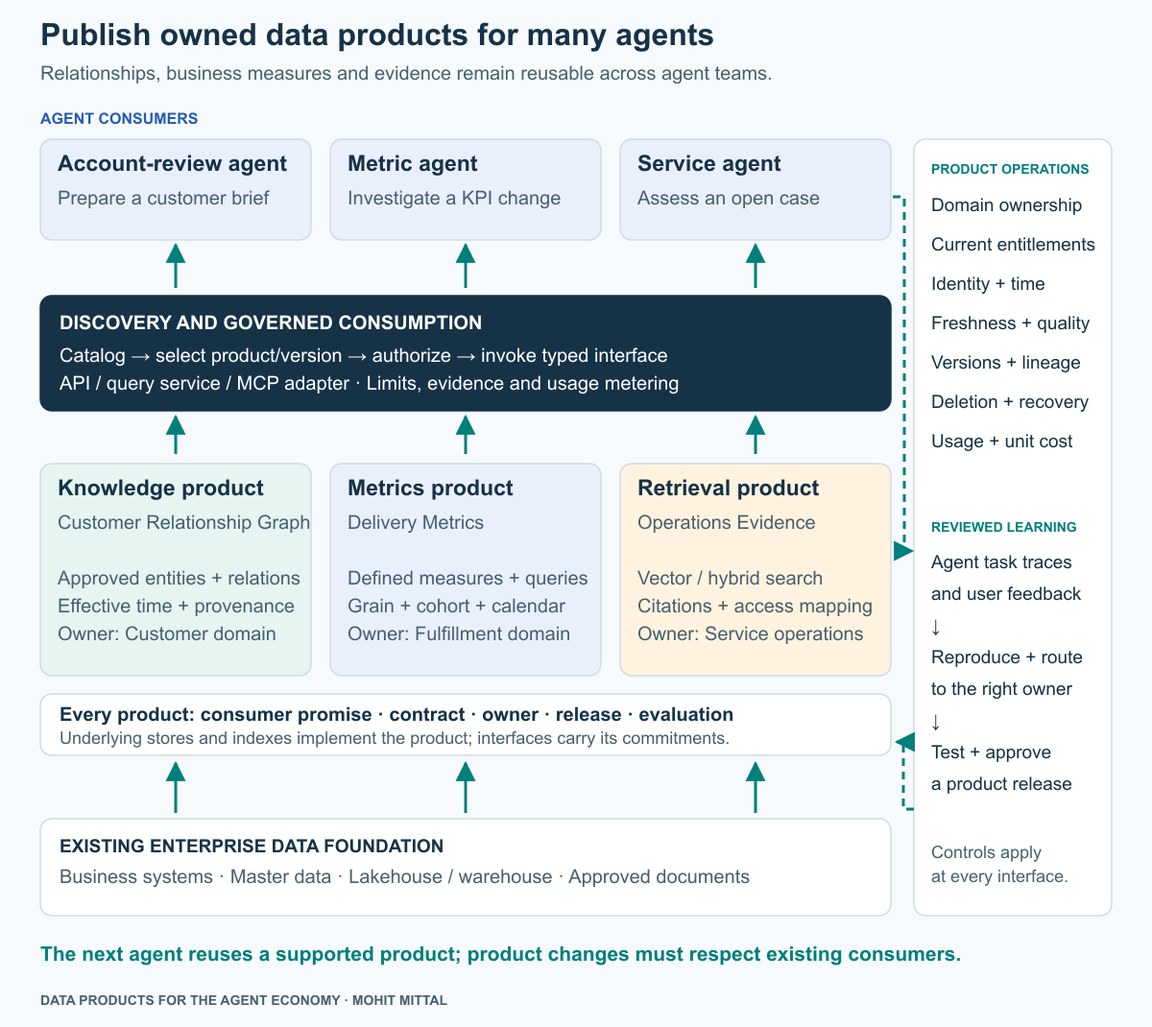
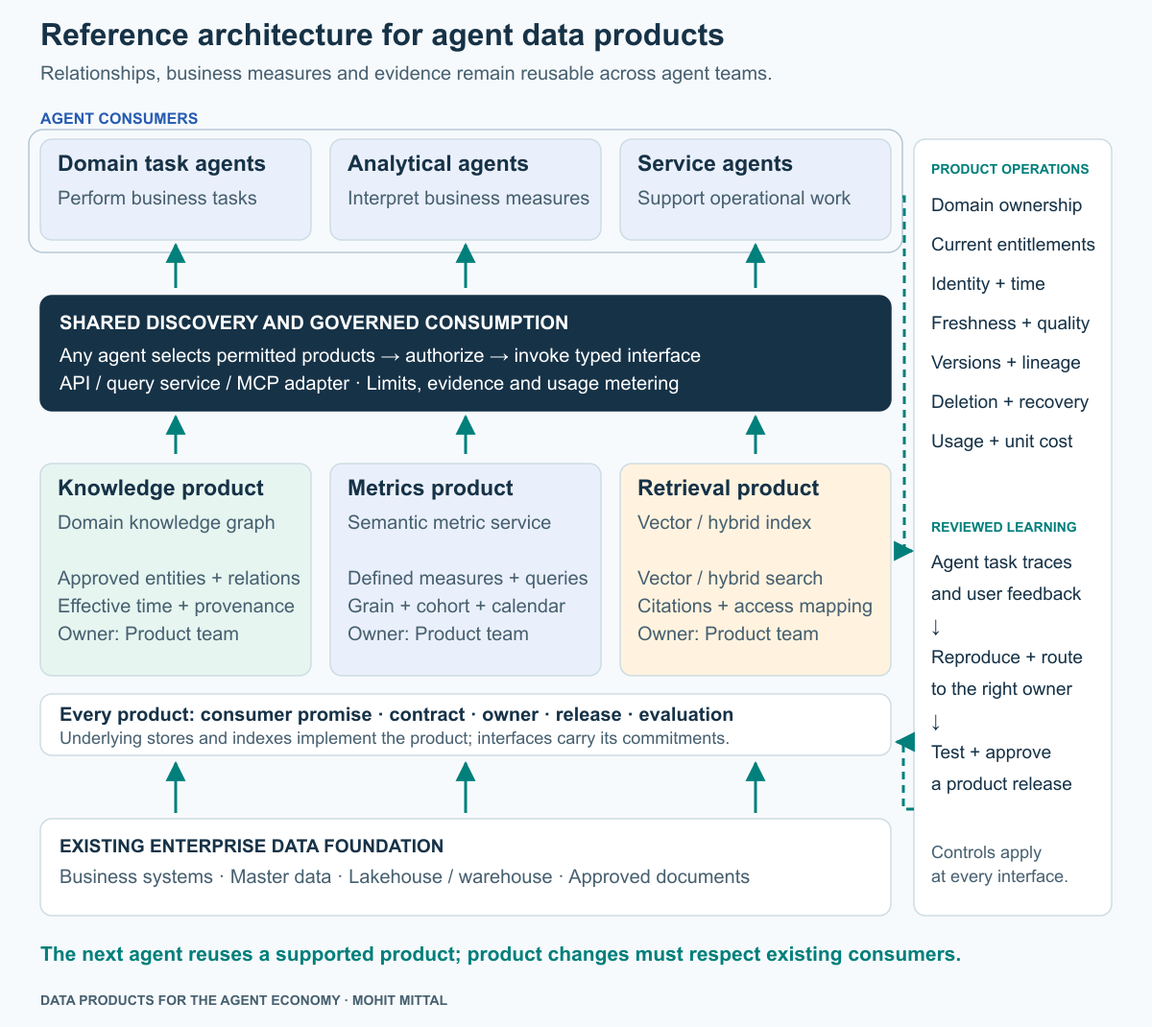
Present reusable reference architecture before the worked agent example

diff --git a/example/verify_metric.py b/example/verify_metric.py
@@ -1,5 +1,5 @@
 #!/usr/bin/env python3
-"""Synthetic arithmetic and contract demonstration for paper section 3.
+"""Synthetic arithmetic and contract demonstration for paper section 7.
 
 Run with Python 3.10+; only the standard library is used.
 

diff --git a/README.md b/README.md
@@ -4,9 +4,9 @@
 
 **Mohit Mittal · Independent architecture proposal · September 2026**
 
-Consider an enterprise introducing three agents: one prepares account reviews, another investigates service failures, and a third supports financial planning. All three need to know which business entities belong to a customer, how performance is measured and which documents support an explanation. If each team reconstructs those relationships, writes its own metric queries and builds a private document index, every new agent brings another copy of the same business knowledge to maintain.
+As an enterprise deploys agents across business functions, each team needs access to business entities and relationships, consistent measures and supporting evidence. If every team reconstructs that knowledge, writes its own metric queries and builds a private document index, the organization acquires many interpretations of the same business—and many copies to maintain.
 
-**The enterprise should publish that knowledge as reusable data products that agents can discover and consume.** A customer knowledge graph supplies approved relationships. A semantic metrics product supplies defined, executable business measures. A retrieval product supplies relevant, authorized evidence through a maintained vector or hybrid index. Each has a named owner, a supported interface and measurable commitments to its consumers.
+**The enterprise should publish that knowledge as reusable data products that agents can discover and consume.** A knowledge graph supplies approved entities and relationships. A semantic metrics product supplies defined, executable business measures. A retrieval product supplies relevant, authorized evidence through a maintained vector or hybrid index. Each has a named owner, a supported interface and measurable commitments to its consumers.
 
 This paper uses **agent economy** to describe an ecosystem in which agents across teams—and, where authorized, partner organizations—consume shared enterprise capabilities to perform work. The starting point is internal reuse. It does not require a commercial marketplace: the economic question is whether the next agent can use an existing product with less duplicated engineering and review effort.
 
@@ -18,66 +18,70 @@ For a CIO, CTO or Chief Architect, three decisions follow:
 - **What may an agent rely on?** Define each product's meaning, scope, access, freshness, failure behavior and evidence of correctness.
 - **How will reuse improve?** Fund product ownership and use evaluated agent outcomes to repair shared products through reviewed releases.
 
-The architecture below makes those decisions concrete. The worked example follows a metric agent that combines the three products; account-review and service agents can reuse them for different tasks. The scenario is synthetic, not a claim about an employer deployment.
+The reference architecture comes first: product boundaries, consumption contracts, the data foundation, controls, evaluation and sourcing decisions. A separate worked example then shows a metric agent using the architecture. The final section explains how to adopt it.
+
+## Reference architecture
+
+Publish domain-owned knowledge, calculation and retrieval capabilities above the data estate. Expose them through governed interfaces, let agent applications select the products a task needs, and use evaluated outcomes to drive reviewed changes. These are logical responsibilities; they need not become separate platforms or teams.
 
 ![Three classes of owned data products supply several enterprise agents through governed discovery and consumption.](diagrams/01-agent-product-architecture.png)
 
-*Figure 1. Agent teams consume shared knowledge, calculations and evidence. Data-product teams own those capabilities across agent implementations. Lines show supported publication and consumption routes; a task selects the products it needs. Dashed paths carry agent observations to owner review and reviewed releases back to the products.*
+*Figure 1. Reference architecture, independent of any single use case. Solid paths show publication and consumption routes; a task selects the products it needs. Dashed paths carry observations from the consumer group to owner review and reviewed releases back to the products. Column alignment does not assign an agent to a particular product. Product and application interfaces enforce the relevant controls.*
+
+| Architectural responsibility | What it owns |
+|---|---|
+| Enterprise data foundation | Authoritative inputs, validated transformations and source access |
+| Domain data products | Business meaning, supported operations, quality and lifecycle commitments |
+| Discovery and consumption | Product selection, version resolution, verified identity, bounded invocation and usage records |
+| Agent applications | Task intent, product composition, result acceptance, final disclosure and separately authorized actions |
+| Product operations and learning | Consumer support, evaluation, incident diagnosis and reviewed releases |
 
 
-**Reading guide:** [The three products](#1-publish-three-distinct-product-promises) · [Agent consumption contract](#2-design-the-contract-for-agent-consumption) · [Worked agent task](#3-one-agent-task-three-products) · [Medallion and Platinum](#4-build-on-the-data-estate-you-already-operate) · [Failure and access](#5-make-failure-and-access-part-of-the-product) · [Evaluation and learning](#6-make-agent-use-improve-the-products) · [Build vs. Buy](#7-build-vs-buy-buy-engines-own-the-product) · [Enterprise adoption](#8-adopt-through-a-second-consumer)
+**Reading guide:** [Reference architecture](#reference-architecture) · [Product promises](#1-publish-three-distinct-product-promises) · [Consumption contracts](#2-design-the-contract-for-agent-consumption) · [Data foundation](#3-build-on-the-data-estate-you-already-operate) · [Failure and access](#4-make-failure-and-access-part-of-the-product) · [Evaluation and learning](#5-make-agent-use-improve-the-products) · [Build vs. Buy](#6-build-vs-buy-buy-engines-own-the-product) · [Worked example](#7-worked-example-one-metric-agent-three-products) · [Adoption](#8-adopt-through-a-second-consumer)
 
 ## 1. Publish three distinct product promises
 
-The unit of reuse is a business capability with an operating commitment. A team consuming a Customer Relationship Graph needs to know which relationships it can rely on, at what effective date and under whose authority. Knowing which graph database stores the nodes is secondary.
+The unit of reuse is a business capability with an operating commitment. A team consuming a knowledge product needs to know which relationships it can rely on, at what effective date and under whose authority. Knowing which graph database stores the nodes is secondary.
 
 Domain ownership, data as a product and shared platform services provide a useful foundation. The particular architecture here applies those principles to agent consumption: products must make their meaning and permitted use explicit enough for an application to select and invoke them reliably. [Zhamak Dehghani, *Data Mesh Principles and Logical Architecture*](https://martinfowler.com/articles/data-mesh-principles.html).
 
-### Knowledge product: Customer Relationship Graph
+### Knowledge products: entities and relationships
 
-**Consumer promise:** resolve permitted customer identities and approved business relationships for a declared effective date.
+**Consumer promise:** resolve permitted business entities and approved relationships for a declared effective date.
 
-An account-review agent may need a commercial parent and its subsidiaries. A service agent may need the accounts entitled to support under a contract. Those are different relationship types; a shared graph should preserve the distinction. The customer-domain owner decides the meaning and authoritative sources. A product team maintains identifiers, relationship provenance, source mappings and the serving interface.
+The domain owner defines entity types, relationship meaning and authoritative sources. A product team maintains identifiers, relationship provenance, source mappings and the serving interface. Commercial ownership, contractual entitlement and operational dependency are different relationships; a shared graph must preserve their meaning and permitted uses.
 
-Publish bounded operations such as `resolve_customer`, `get_commercial_group` and `get_contract_coverage`. Inputs specify known identifiers, relationship types and an effective date. Responses carry stable entity IDs, relevant relationship paths, validity periods, source references, product versions and any unresolved mappings. A consequential uncertain identity match needs resolution; it cannot silently become an approved merge.
+Publish bounded entity-resolution, relationship-traversal and evidence operations, with domain-specific names and schemas. Inputs specify known identifiers, relationship types and an effective date. Responses carry stable entity IDs, relevant relationship paths, validity periods, source references, product versions and any unresolved mappings. A consequential uncertain identity match needs resolution; it cannot silently become an approved merge.
 
 The graph is the maintained representation of business relationships. Extracted document statements remain provisional until they meet the product's acceptance policy. A domain graph and a lineage graph also have different jobs: the former connects business entities; the latter connects data assets, transformations and consumers. Link them through controlled identifiers. Neither automatically establishes the completeness or truth of the other. [W3C provenance model](https://www.w3.org/TR/prov-dm/).
 
 An organization with a simple, stable hierarchy can begin with a relational implementation behind the same product contract. Invest in a graph engine when representative traversal, changing relationships and explanatory paths justify its operating cost. The data product persists even if its storage implementation changes.
 
-### Metrics product: Delivery Metrics
+### Semantic metrics products: executable business meaning
 
 **Consumer promise:** calculate approved measures for a specified population, period and breakdown.
 
-Publish metric definitions together with an execution service. The contract establishes business grain—the unit being measured, such as an order rather than a shipment—plus numerator and denominator, supported dimensions, permissible joins, calendar, exclusions, correction policy and owner. Agents invoke an approved calculation; each application should not generate its own interpretation of “on-time delivery” from table descriptions.
+Publish metric definitions together with an execution service. The contract establishes business grain—what one counted or aggregated record represents—plus numerator and denominator, supported dimensions, permissible joins, calendar, exclusions, correction policy and owner. Agents invoke an approved calculation; each application should not generate its own interpretation of a business measure from table descriptions.
 
-`query_metric` accepts a released metric ID, definition version, a compatible reference to the selected customer population (or cohort), periods and permitted dimensions. Its result includes the value, component measures, units, scope, actual time bounds, source snapshot or coverage watermark, quality status and calculation reference. Distinct business definitions receive explicit names or versions. Finance's recognized revenue and Sales' bookings should not be collapsed into a single ambiguous “revenue” measure.
+`query_metric` accepts a released metric ID, definition version, a compatible reference to the selected business population (or cohort), periods and permitted dimensions. Its result includes the value, component measures, units, scope, actual time bounds, source snapshot or coverage watermark, quality status and calculation reference. Distinct business definitions receive explicit names or versions. Finance's recognized revenue and Sales' bookings should not be collapsed into a single ambiguous “revenue” measure.
 
-Executable semantics matter. Averaging percentages without denominator weights, multiplying rows through a shipment join, or using a current hierarchy to restate historical results can produce plausible but incorrect answers. Product tests must reconcile these cases. A semantic model's declared cardinality is a constraint to validate against real data. [dbt join logic](https://docs.getdbt.com/docs/build/join-logic).
+Executable semantics matter. Averaging percentages without denominator weights, multiplying rows through a one-to-many join, or using a current hierarchy to restate historical results can produce plausible but incorrect answers. Product tests must reconcile these cases. A semantic model's declared cardinality is a constraint to validate against real data. [dbt join logic](https://docs.getdbt.com/docs/build/join-logic).
 
 There are concrete mechanisms to expose such products to agents. dbt's MCP tools include metric discovery, dimension discovery and metric queries. They provide an access path to defined measures; the enterprise remains responsible for the definitions, permitted tool subset and underlying data. Availability depends on the relevant service and plan. [dbt available MCP tools](https://docs.getdbt.com/docs/dbt-ai/mcp-available-tools).
 
-### Retrieval product: Operations Evidence
+### Retrieval products: governed access to evidence
 
 **Consumer promise:** return relevant, permitted passages from a declared corpus, with enough provenance to inspect their meaning and applicability.
 
 A reusable vector index becomes a product when someone owns the eligible sources, extraction quality, chunking, embedding configuration, refresh, entitlement mapping, deletion, retrieval evaluation and consumer interface. A product entry might publish the index directly to approved clients or expose it through `search_evidence`. A service interface gives the producer more control over query limits and enforcement while insulating consumers from index changes.
 
-Return source IDs and versions, document locations, event or validity dates, retrieved passages and index/retrieval versions. Preserve links to the authoritative record. Similarity scores describe retrieval behavior; they are not probabilities that a statement is true. Empty results do not establish that no incident occurred.
+Return source IDs and versions, document locations, event or validity dates, retrieved passages and index/retrieval versions. Preserve links to the authoritative record. Similarity scores describe retrieval behavior; they are not probabilities that a statement is true. Empty results do not establish that the underlying fact or event does not exist.
 
 Use lexical matching for exact identifiers and domain terms alongside vector retrieval where it improves representative tasks. Graph traversal can expand a search through known relationships when that helps. These are selectable retrieval strategies, not a requirement that every query traverse a graph and a vector index. [Neo4j retrieval guide](https://neo4j.com/docs/neo4j-graphrag-python/current/user_guide_rag.html).
 
 The three products can have different owners and release cadences while sharing infrastructure. They can also be interfaces of one cohesive domain product when purpose, ownership and lifecycle align. Do not split them into separate organizations solely because their storage technologies differ.
 
 McKinsey's public AI data-readiness guidance describes curated unstructured data products exposed through search and APIs, with relationships preserved as information is transformed. That supports this serving direction; the three-product contract and operating model here are an independent proposal. [McKinsey, *AI data readiness*](https://www.mckinsey.com/capabilities/mckinsey-technology/our-insights/ai-data-readiness-the-key-to-scaling-impact).
-
-| Agent consumer | Relationship product | Metrics product | Retrieval product |
-|---|---|---|---|
-| Account-review agent | Resolve the permitted commercial group | Calculate its delivery trend | Retrieve relevant account and incident evidence |
-| Metric agent | Fix the population for a comparison | Calculate and decompose the change | Find material for further investigation |
-| Service agent | Resolve account and contract coverage | Use only if the case needs a measure | Retrieve applicable procedures and case evidence |
-
-*Illustrative consumer map. Each product enforces the caller's scope; sharing a product does not mean every agent receives the same data.*
 
 ## 2. Design the contract for agent consumption
 
@@ -120,53 +124,17 @@ Keep broad development tools separate from a certified product interface. If a m
 
 For partner agents, add explicit agreements on identity federation, purpose, onward disclosure, residency, liability for corrections, support and commercial terms. Begin with a deliberately small product surface. An internal product does not become externally shareable simply because its endpoint speaks a common protocol.
 
-## 3. One agent task, three products
+### Composition is an application responsibility
 
-An operations leader asks a metric agent: **“Why did on-time delivery fall for our strategic customers between July and August?”** The following example is synthetic. It illustrates the products' contributions and the limits of the resulting explanation.
+Individually valid products do not automatically form a valid answer. The consuming application checks three conditions before combining results:
 
-First, the application establishes the approved measure and reporting basis. Customer Relationship Graph resolves the strategic-customer cohort as of July 1. The agent uses that fixed cohort for both months; unknown membership blocks a complete comparison. Changing the membership between months would answer a different question.
+1. **Population and identity:** requested and applied populations match, entity namespaces are compatible, and permissions have not silently reduced a claimed complete population. A narrower answer requires an explicitly supported scope and label.
+2. **Time and correction basis:** definitions, effective periods and data versions support the requested comparison. Use reproducible snapshots or retained calculation references where the contract promises reproducibility; a freshness watermark alone is insufficient. Current access still applies.
+3. **Evidence applicability:** retrieved sources identify their versions, coverage and relevant entities or period. Their relevance cannot override a failed calculation or scope check, and retrieval scores do not establish causation.
 
-Delivery Metrics calculates an order-level rate. The denominator includes eligible orders due in the month, including undelivered orders, and excludes orders canceled before the first committed deadline. The numerator counts orders fully delivered by that deadline. Reporting uses the original destination timezone, the region recorded at commitment and monthly snapshots frozen seven days after month-end. These are proposed choices for the example, not universal definitions.
+Required checks fail closed for the affected conclusion. Optional evidence can be unavailable without invalidating independently verified results, provided the application clearly qualifies what remains unanswered.
 
-| Region | July: on time / due | August: on time / due | Rate in each month |
-|---|---:|---:|---:|
-| North | 76 / 80 | 38 / 40 | 95% |
-| South | 14 / 20 | 42 / 60 | 70% |
-| Total | 90 / 100 | 80 / 100 | 90% → 80% |
-
-South's share increases from 20% to 60%. Recomputing August with July's regional weights gives 90%. In this complete two-region decomposition, the changed mix accounts for the full ten-percentage-point aggregate decline; neither regional rate deteriorated. That establishes the arithmetic contribution, not why the mix changed.
-
-The agent then queries Operations Evidence for the relevant regions and period. Suppose a synthetic August note reports a sorting backlog. The note is an investigation lead. It does not prove that the backlog caused the aggregate decline or the shift in order mix. The answer should explain what the calculation establishes and what further investigation remains.
-
-![A metric agent resolves a cohort, obtains an approved calculation and retrieves supporting evidence under three product contracts.](diagrams/02-product-composition.png)
-
-*Figure 2. The graph supplies the population, the metrics service supplies the calculation, and retrieval supplies documentary evidence. These dependencies are selected for this task. Other agents can reuse one or two products without executing this entire sequence.*
-
-If documentary retrieval times out, the application can return the verified numbers while identifying the incomplete investigation. If the denominator is uncertified, it stops the numerical conclusion. If customer IDs or effective periods are incompatible, a successful response from each service still does not justify combining them. Products therefore need both independent tests and composition tests.
-
-### What the application checks before combining results
-
-The following **filled synthetic consumption record** illustrates the checks. The identifiers are proposed references, not outputs from the runnable arithmetic fixture. Full membership and policy records are protected; references reveal only what the caller may inspect.
-
-| Product response | Relevant recorded state |
-|---|---|
-| Customer Relationship Graph | Cohort `strategic-jul01-r1`; namespace `enterprise.customer.v1`; membership effective 2026-07-01; immutable graph snapshot `g042`; no unresolved members; membership interpretation frozen for both periods |
-| Delivery Metrics | Definition `on-time-order.v1`; requested and applied cohort both `strategic-jul01-r1`; complete cohort coverage under the metric service's current permissions; immutable data snapshots `july-frozen-r1` and `august-frozen-r1`; calculation reference `calc-017` records the definition, inputs and grouping |
-| Operations Evidence | Approved corpus `ops-incidents.v1`; declared search period July–August 2026; index release `idx-028`; searchable-source manifest `docs-028` identifies source versions and ingestion coverage; returned passages retain their source event dates |
-
-The consuming application enforces three acceptance rules:
-
-1. **Preserve the requested population.** The metric service must acknowledge the exact cohort and compatible customer-ID namespace. If its permissions hide part of that population, return incomplete or denied according to disclosure policy. Do not silently present the filtered subset as the original cohort. A narrower population requires an explicit new request and label.
-2. **Preserve the requested time and correction basis.** The selected metric definition and data snapshots must support the frozen comparison and the graph's historical membership. A coverage watermark alone cannot reproduce a result after source corrections; retain an immutable data/calculation reference where reproducibility is promised. Required current authorization still applies.
-3. **Match evidence to the question without upgrading its authority.** The retrieval response must identify its corpus, source versions and known coverage, and the passages must be applicable to the period and entities being discussed. Coverage limits qualify the investigation. A matching document cannot override failed population or calculation checks.
-
-For example, a metric result marked `applied_cohort=strategic-current-r2` is rejected for this comparison even if its percentage looks plausible. A record containing `august-restated-r2` is not accepted as the requested frozen August result without an explicitly changed reporting basis. Each product may be valid independently; the combination fails this task's contract.
-
-An account-review agent can consume the same products for one permitted commercial group. A service agent can reuse identity and incident retrieval without querying the metric. This is the adoption test: the second application gets a supported capability, not another copy of an index, prompt or formula.
-
-[Run the synthetic arithmetic example](example/README.md). Its 17 checks cover selected calculation and contract failures. It does not implement the product services, graph, retrieval, permission system or complete agent workflow.
-
-## 4. Build on the data estate you already operate
+## 3. Build on the data estate you already operate
 
 The products need authoritative inputs and dependable transformation paths. Existing operational systems, master data, lakehouses, warehouses and document repositories remain their foundations. The incremental investment is the product boundary: curated meaning, serving interface, evaluation, consumer support and lifecycle operation.
 
@@ -174,13 +142,13 @@ In a medallion estate, Bronze preserves captured inputs, Silver supplies validat
 
 ![Medallion refinement feeds owned graph, metric and retrieval products through suitable detailed and business-ready inputs.](diagrams/03-foundation-to-products.png)
 
-*Figure 3. Product serving builds on the existing foundation. A graph may need validated entity detail; retrieval needs eligible content; metrics need models at the correct grain. Every product owns its relevant dependencies across layers.*
+*Figure 2. Product serving builds on the existing foundation. A graph may need validated entity detail; retrieval needs eligible content; metrics need models at the correct grain. Every product owns its relevant dependencies across layers.*
 
 Keep one authoritative metric definition. Gold already contains business meaning; Platinum need not recreate it or materialize another copy. Documents need not pass through a reporting aggregate before indexing. A logical product can share an engine with other products, while a derived store needs its own synchronization, access and recovery commitments.
 
 Existing catalogs, lineage and metadata automation can support discovery and impact assessment. Their coverage must be measured. They cannot establish an unrecorded business relationship, settle a disputed measure or identify an undocumented agent consumer automatically. Keep the investment tied to the selected agent task and the products it needs.
 
-## 5. Make failure and access part of the product
+## 4. Make failure and access part of the product
 
 Agent consumption increases the cost of a vague interface. A human analyst may notice a stale cohort or question an empty result; an application may continue unless the contract tells it to stop. Publish failure semantics that the consuming application can enforce.
 
@@ -188,7 +156,7 @@ Agent consumption increases the cost of a vague interface. A human analyst may n
 |---|---|
 | Ambiguous identity or metric | Request clarification or stop the affected conclusion; do not choose a materially different meaning silently |
 | Required data incomplete or stale | Return a machine-readable condition; serve a permitted labeled snapshot only if the task allows it |
-| Optional retrieval unavailable | Preserve separately verified calculations and qualify missing evidence; do not invent an explanation |
+| Optional product unavailable | Preserve independently verified results and qualify the missing contribution; do not invent an answer |
 | Access denied or restricted discovery | Enforce the boundary without leaking protected asset existence; internal diagnosis can be more specific than the consumer response |
 | Cross-product versions or time bases incompatible | Reject the combination or use an explicitly supported compatible set |
 | Source deletion or entitlement revocation | Prevent prohibited serving promptly, propagate deletion through derivatives and caches, and retain auditable handling under policy |
@@ -203,7 +171,7 @@ Treat retrieved text as evidence, including when it contains instructions. Keep 
 
 A data product authorizes a read or calculation within its contract. If an agent proposes updating an account, reallocating an order or opening a case, the operational service needs a separate action contract, validation and authorization. An analytical result is not a grant to act.
 
-## 6. Make agent use improve the products
+## 5. Make agent use improve the products
 
 A poor agent answer can reveal a product defect. It can also reveal an incorrect plan, a bad tool adapter or a faulty evaluation reference. Diagnose the failure before choosing the remedy. This is where evaluation becomes partly a data-product responsibility: the enterprise must maintain the facts, definitions, temporal references and expected behavior used to judge an answer.
 
@@ -211,13 +179,13 @@ Fitness is specific to the supported use and must be rechecked as inputs and con
 
 | Observed failure | Diagnostic question | Likely repair owner |
 |---|---|---|
-| Wrong customer population | Was the hierarchy incorrect, the date wrong, or the agent's cohort selection wrong? | Relationship product or agent/application owner, after reproduction |
+| Wrong entity population | Was the hierarchy incorrect, the date wrong, or the agent's cohort selection wrong? | Relationship product or agent/application owner, after reproduction |
 | Incorrect percentage | Did the metric definition, source completeness, join, query or displayed answer fail? | Metrics product or application owner |
 | Unsupported explanation | Was relevant evidence absent, inaccessible, poorly retrieved or misinterpreted? | Retrieval product or application/model owner |
 | “Failed” evaluation of a correct answer | Does the expected answer refer to a different snapshot, definition or access scope? | Evaluation owner |
 | Information disclosed outside scope | Which serving, caching, handoff or presentation boundary failed? | Product/platform and consuming-application owners |
 
-In the example, an evaluator expecting a restated August value can incorrectly fail an answer based on the requested frozen August snapshot. Pin the expected definition and data state; “the latest answer” is not a complete reference. Similarly, access-limited retrieval should not be judged against documents the caller could never receive.
+An evaluator that expects a restated value can incorrectly fail an answer based on the requested historical snapshot. Pin the expected definition and data state; “the latest answer” is not a complete reference. Similarly, access-limited retrieval should not be judged against documents the caller could never receive.
 
 ### Evaluate the product and the composed task
 
@@ -234,7 +202,7 @@ Databricks documents managed evaluation datasets and distinguishes feedback on o
 
 ![Agent outcomes feed a reviewed cycle of diagnosis, accountable repair, evaluation and compatible product release.](diagrams/04-reviewed-product-learning.png)
 
-*Figure 4. Evaluation can change a shared product, the consuming agent or the evaluator itself. Feedback is a candidate signal. Owners approve tested changes before other agents receive them.*
+*Figure 3. Evaluation can change a shared product, the consuming agent or the evaluator itself. Feedback is a candidate signal. Owners approve tested changes before other agents receive them.*
 
 Keep decision traces as observable records: task and product references, selected operations, source versions, concise decision rationale, checks, outcome and metered consumption. Protect sensitive payloads and apply retention policy. Hidden model reasoning is neither required nor an audit contract.
 
@@ -242,7 +210,19 @@ A failed case should become a reviewed regression case when it represents suppor
 
 The useful feedback loop is therefore **agent task → evidence → diagnosis → owner repair → evaluation → compatible release → observed result**. Never promote generated graph relationships, inferred metric definitions or retrieved claims automatically into authoritative products.
 
-## 7. Build vs. Buy: buy engines, own the product
+### People and decision rights
+
+| Accountable role | Decisions and recurring work |
+|---|---|
+| Domain product owner | Consumer promise, authoritative meaning, source responsibilities, acceptable use and compatibility of changes |
+| Data-product engineering team | Publication pipeline, interfaces, evaluations, source incidents, recovery, support and retirement |
+| Shared platform owner | Common discovery, identity integration, contract tooling, observability, metering and paved deployment paths |
+| Agent/application owner | Task success, product selection, safe composition, final disclosure, human review and separately authorized actions |
+| Business sponsor | Funded use case, accepted outcome, value measurement and expansion or retirement decision |
+
+Security, privacy and domain specialists contribute concrete acceptance conditions within these responsibilities. A cross-functional review should settle decisions that require it; it should not become a separate ticket for every ordinary read. Staff the support and stewardship work as part of the product budget, not as an informal favor from the original agent team.
+
+## 6. Build vs. Buy: buy engines, own the product
 
 The procurement question is which existing capabilities can satisfy the product promise and which missing interfaces justify custom work. Reuse is an option within that decision. Tool combinations below are candidates, not a tested integrated stack.
 
@@ -260,25 +240,71 @@ Databricks managed MCP servers expose scoped Genie Agents, AI Search indexes and
 
 Evaluate vendors against a product acceptance suite: the same business questions, identities, access scopes, changed definitions, late data, deletions, load and failure conditions. Include exportability of contracts and evaluation assets. The enterprise should be able to change a model, adapter or engine without losing ownership of its business semantics.
 
+## 7. Worked example: one metric agent, three products
+
+An operations leader asks a metric agent: **“Why did on-time delivery fall for our strategic customers between July and August?”** The following example is synthetic. It illustrates the products' contributions and the limits of the resulting explanation. The reference architecture is instantiated as three named products: **Customer Relationship Graph**, **Delivery Metrics** and **Operations Evidence**. Their implementation and operating commitments are specific to this scenario.
+
+First, the application establishes the approved measure and reporting basis. Customer Relationship Graph resolves the strategic-customer cohort as of July 1. The agent uses that fixed cohort for both months; unknown membership blocks a complete comparison. Changing the membership between months would answer a different question.
+
+Delivery Metrics calculates an order-level rate. The denominator includes eligible orders due in the month, including undelivered orders, and excludes orders canceled before the first committed deadline. The numerator counts orders fully delivered by that deadline. Reporting uses the original destination timezone, the region recorded at commitment and monthly snapshots frozen seven days after month-end. These are proposed choices for the example, not universal definitions.
+
+| Region | July: on time / due | August: on time / due | Rate in each month |
+|---|---:|---:|---:|
+| North | 76 / 80 | 38 / 40 | 95% |
+| South | 14 / 20 | 42 / 60 | 70% |
+| Total | 90 / 100 | 80 / 100 | 90% → 80% |
+
+South's share increases from 20% to 60%. Recomputing August with July's regional weights gives 90%. In this complete two-region decomposition, the changed mix accounts for the full ten-percentage-point aggregate decline; neither regional rate deteriorated. That establishes the arithmetic contribution, not why the mix changed.
+
+The agent then queries Operations Evidence for the relevant regions and period. Suppose a synthetic August note reports a sorting backlog. The note is an investigation lead. It does not prove that the backlog caused the aggregate decline or the shift in order mix. The answer should explain what the calculation establishes and what further investigation remains.
+
+![A metric agent resolves a cohort, obtains an approved calculation and retrieves supporting evidence under three product contracts.](diagrams/02-product-composition.png)
+
+*Figure 4. The graph supplies the population, the metrics service supplies the calculation, and retrieval supplies documentary evidence. These dependencies are selected for this task. Other agents can reuse one or two products without executing this entire sequence.*
+
+If documentary retrieval times out, the application can return the verified numbers while identifying the incomplete investigation. If the denominator is uncertified, it stops the numerical conclusion. If customer IDs or effective periods are incompatible, a successful response from each service still does not justify combining them. Products therefore need both independent tests and composition tests.
+
+### What the application checks before combining results
+
+The following **filled synthetic consumption record** illustrates the checks. The identifiers are proposed references, not outputs from the runnable arithmetic fixture. Full membership and policy records are protected; references reveal only what the caller may inspect.
+
+| Product response | Relevant recorded state |
+|---|---|
+| Customer Relationship Graph | Cohort `strategic-jul01-r1`; namespace `enterprise.customer.v1`; membership effective 2026-07-01; immutable graph snapshot `g042`; no unresolved members; membership interpretation frozen for both periods |
+| Delivery Metrics | Definition `on-time-order.v1`; requested and applied cohort both `strategic-jul01-r1`; complete cohort coverage under the metric service's current permissions; immutable data snapshots `july-frozen-r1` and `august-frozen-r1`; calculation reference `calc-017` records the definition, inputs and grouping |
+| Operations Evidence | Approved corpus `ops-incidents.v1`; declared search period July–August 2026; index release `idx-028`; searchable-source manifest `docs-028` identifies source versions and ingestion coverage; returned passages retain their source event dates |
+
+The application applies the reference architecture's composition checks to this record:
+
+1. **Population:** require `strategic-jul01-r1` in `enterprise.customer.v1`, with complete coverage of that cohort under current permissions. A restricted subset cannot be presented as the complete comparison.
+2. **Time:** require `on-time-order.v1`, the July/August frozen snapshots and the July 1 membership basis. Retain `calc-017` so the reported values can be tied to those inputs.
+3. **Evidence:** require the approved `ops-incidents.v1` corpus, source versions from `docs-028` and passages applicable to the selected entities and period. Coverage limits qualify the investigation, and a matching note cannot establish the cause of the calculated change.
+
+For example, a metric result marked `applied_cohort=strategic-current-r2` is rejected for this comparison even if its percentage looks plausible. A record containing `august-restated-r2` is not accepted as the requested frozen August result without an explicitly changed reporting basis. Each product may be valid independently; the combination fails this task's contract.
+
+An account-review agent can consume the same products for one permitted commercial group. A service agent can reuse identity and incident retrieval without querying the metric. This is the adoption test: the second application gets a supported capability, not another copy of an index, prompt or formula.
+
+### Reuse beyond the metric agent
+
+| Agent consumer | Relationship product | Metrics product | Retrieval product |
+|---|---|---|---|
+| Account-review agent | Resolve the permitted commercial group | Calculate its delivery trend | Retrieve relevant account and incident evidence |
+| Metric agent | Fix the population for a comparison | Calculate and decompose the change | Find material for further investigation |
+| Service agent | Resolve account and contract coverage | Use only if the case needs a measure | Retrieve applicable procedures and case evidence |
+
+*Illustrative consumer map. Each product enforces the caller's scope; sharing a product does not mean every agent receives the same data.*
+
+The scenario has a warehouse, customer master, approved KPI reports, an identity service and an incident repository. The incremental work is the shared product contract, temporal relationships, approved metric interface, retrieval qualification and acceptance suite. The products reuse that foundation.
+
+[Run the synthetic arithmetic example](example/README.md). Its 17 checks cover selected calculation and contract failures. It does not implement the product services, graph, retrieval, permission system or complete agent workflow.
+
 ## 8. Adopt through a second consumer
 
-Start with one consequential agent task and an existing data foundation. In the hypothetical delivery scenario, assume the organization already has a warehouse, customer master, approved KPI reports, an identity service and an incident repository. Retain those investments. Fund the missing product work: explicit temporal relationships, an approved metric interface, a bounded retrieval service where useful, shared response evidence and an acceptance suite.
+Start with one consequential agent task and an inventory of existing data capabilities. Identify which required meanings and operations are already governed and which product commitments are missing. Fund that gap, including interfaces, qualification and continuing ownership; retain useful warehouse, master-data, reporting, identity and search investments.
 
 Do not build all three products merely to complete the diagram. If the first task needs only a measure, begin there. Select a second consumer early enough to test whether the interface and ownership really support reuse. The first useful milestone is an additional agent adopting the capability without copying its business logic or taking over its source pipelines.
 
-### People and decision rights
-
-| Accountable role | Decisions and recurring work |
-|---|---|
-| Domain product owner | Consumer promise, authoritative meaning, source responsibilities, acceptable use and compatibility of changes |
-| Data-product engineering team | Publication pipeline, interfaces, evaluations, source incidents, recovery, support and retirement |
-| Shared platform owner | Common discovery, identity integration, contract tooling, observability, metering and paved deployment paths |
-| Agent/application owner | Task success, product selection, safe composition, final disclosure, human review and separately authorized actions |
-| Business sponsor | Funded use case, accepted outcome, value measurement and expansion or retirement decision |
-
-Security, privacy and domain specialists contribute concrete acceptance conditions within these responsibilities. A cross-functional review should settle decisions that require it; it should not become a separate ticket for every ordinary read. Staff the support and stewardship work as part of the product budget, not as an informal favor from the original agent team.
-
-The second consumer can change that commitment. Suppose a service agent requires fresher relationships and longer historical support than the account-review agent initially funded. The product owner assesses and negotiates the supported requirement; the sponsor funds any expanded service obligation and resolves priority conflicts. Consumer owners maintain acceptance cases and complete agreed migrations. The requirement either fits the current contract, justifies a funded extension or remains outside the promise. Adoption must not silently create an unfunded service-level commitment.
+The second consumer can change that commitment. A second consuming team may require fresher information or longer historical support than the first one funded. The product owner assesses and negotiates the supported requirement; the sponsor funds any expanded service obligation and resolves priority conflicts. Consumer owners maintain acceptance cases and complete agreed migrations. The requirement either fits the current contract, justifies a funded extension or remains outside the promise. Adoption must not silently create an unfunded service-level commitment.
 
 ### Adoption gates and the evidence they require
 
